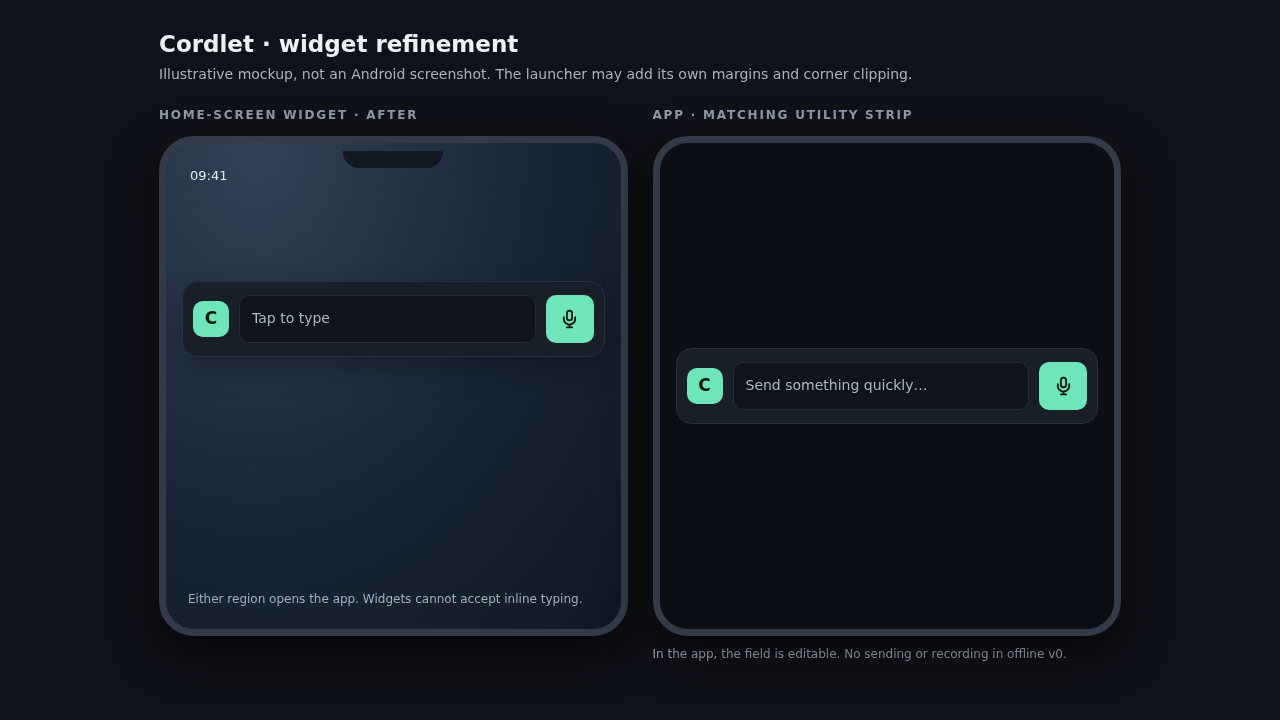
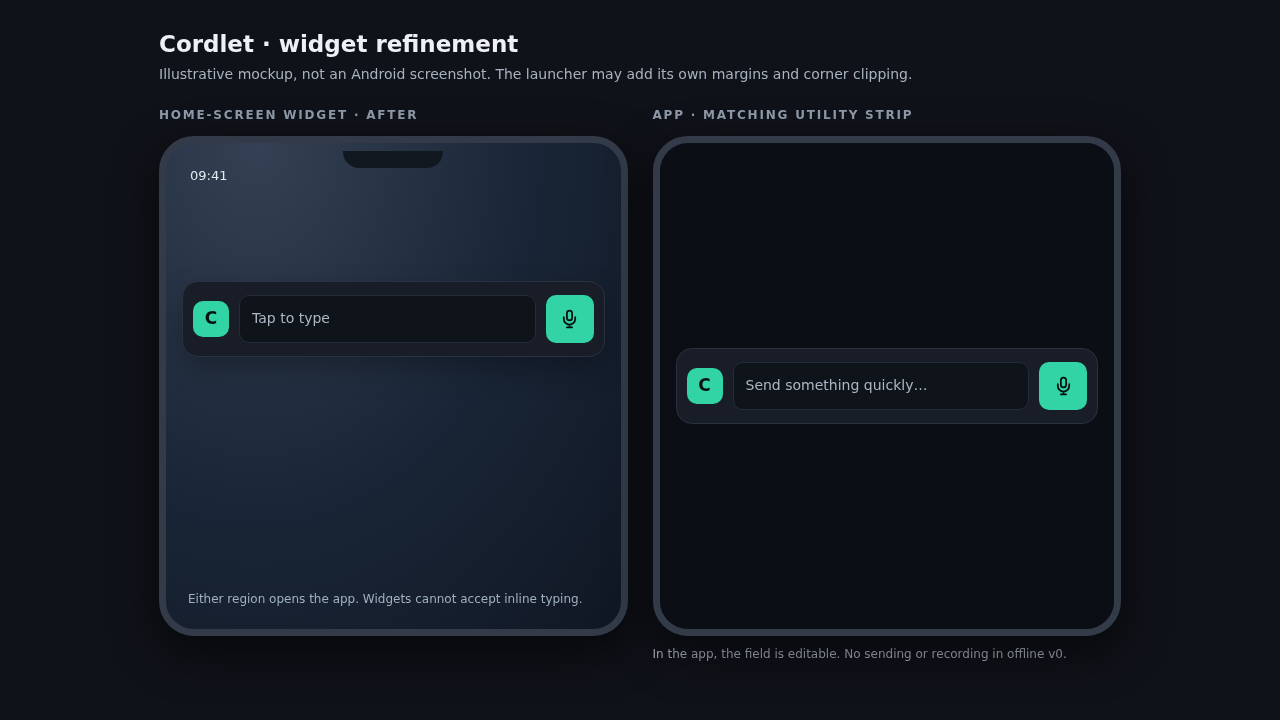
fix: align widget dimensions and palette with app

diff --git a/docs/widget-after-preview.html b/docs/widget-after-preview.html
@@ -1,1 +1,1 @@
-<!doctype html><html lang="en"><head><meta charset="utf-8"><meta name="viewport" content="width=device-width,initial-scale=1"><title>Cordlet widget refinement — illustration</title><style>*{box-sizing:border-box}body{margin:0;background:#101219;color:#edf1f5;font:14px/1.4 system-ui,-apple-system,Segoe UI,sans-serif}.page{max-width:1010px;margin:0 auto;padding:28px 24px 36px}h1{font-size:23px;margin:0 0 5px}p{color:#a8b2c0;margin:0 0 22px}.compare{display:flex;gap:25px;align-items:flex-start}.panel{flex:1;min-width:0}.label{color:#8f9baa;font-size:12px;text-transform:uppercase;letter-spacing:.15em;font-weight:700;margin:0 0 12px}.phone{height:500px;border:7px solid #333b49;border-radius:35px;background:radial-gradient(ellipse at 20% 0%,#344154 0%,#192536 55%,#101723 100%);position:relative;overflow:hidden;padding:24px 16px;box-shadow:0 16px 45px #0009}.phone:before{content:"";position:absolute;top:8px;left:39%;width:22%;height:17px;background:#121820;border-radius:0 0 16px 16px}.clock{font-size:13px;color:#e3ebee;margin:0 0 96px 8px}.widget{width:100%;height:76px;display:flex;align-items:center;gap:10px;background:#191f29;border:1px solid #2a3140;border-radius:16px;padding:10px;box-shadow:0 12px 28px #0004}.brand{width:36px;height:36px;flex:none;display:grid;place-items:center;background:#6fe6ba;border-radius:10px;color:#07110e;font-size:17px;font-weight:900}.well{height:48px;min-width:0;flex:1;display:flex;align-items:center;border:1px solid #252c38;border-radius:10px;background:#0f131a;color:#aeb7c3;padding:0 12px;white-space:nowrap;overflow:hidden;text-overflow:ellipsis}.mic{width:48px;height:48px;flex:none;display:grid;place-items:center;border-radius:10px;background:#6fe6ba;color:#07110e}.mic svg{width:21px;height:21px;fill:none;stroke:currentColor;stroke-width:2;stroke-linecap:round;stroke-linejoin:round}.caption{position:absolute;bottom:21px;left:22px;right:22px;color:#9fb0bf;font-size:12px}.app{position:absolute;inset:0;background:#0b0e14;display:flex;align-items:center;padding:0 16px}.app .widget{box-shadow:none}.screen-note{margin-top:10px;color:#aab4c0;font-size:12px}@media(max-width:750px){.compare{flex-direction:column}.panel{width:100%}.phone{height:420px}.clock{margin-bottom:70px}}</style></head><body><main class="page"><h1>Cordlet · widget refinement</h1><p>Illustrative mockup, not an Android screenshot. The launcher may add its own margins and corner clipping.</p><div class="compare"><section class="panel"><div class="label">Home-screen widget · after</div><div class="phone"><div class="clock">09:41</div><div class="widget"><div class="brand">C</div><div class="well">Tap to type</div><div class="mic"><svg viewBox="0 0 24 24" aria-hidden="true"><rect x="9" y="3" width="6" height="11" rx="3"/><path d="M5.5 10.5v2a6.5 6.5 0 0 0 13 0v-2M12 19v3m-3 0h6"/></svg></div></div><div class="caption">Either region opens the app. Widgets cannot accept inline typing.</div></div></section><section class="panel"><div class="label">App · matching Utility Strip</div><div class="phone"><div class="app"><div class="widget"><div class="brand">C</div><div class="well">Send something quickly…</div><div class="mic"><svg viewBox="0 0 24 24" aria-hidden="true"><rect x="9" y="3" width="6" height="11" rx="3"/><path d="M5.5 10.5v2a6.5 6.5 0 0 0 13 0v-2M12 19v3m-3 0h6"/></svg></div></div></div></div><div class="screen-note">In the app, the field is editable. No sending or recording in offline v0.</div></section></div></main></body></html>
+<!doctype html><html lang="en"><head><meta charset="utf-8"><meta name="viewport" content="width=device-width,initial-scale=1"><title>Cordlet widget refinement — illustration</title><style>*{box-sizing:border-box}body{margin:0;background:#101219;color:#edf1f5;font:14px/1.4 system-ui,-apple-system,Segoe UI,sans-serif}.page{max-width:1010px;margin:0 auto;padding:28px 24px 36px}h1{font-size:23px;margin:0 0 5px}p{color:#a8b2c0;margin:0 0 22px}.compare{display:flex;gap:25px;align-items:flex-start}.panel{flex:1;min-width:0}.label{color:#8f9baa;font-size:12px;text-transform:uppercase;letter-spacing:.15em;font-weight:700;margin:0 0 12px}.phone{height:500px;border:7px solid #333b49;border-radius:35px;background:radial-gradient(ellipse at 20% 0%,#344154 0%,#192536 55%,#101723 100%);position:relative;overflow:hidden;padding:24px 16px;box-shadow:0 16px 45px #0009}.phone:before{content:"";position:absolute;top:8px;left:39%;width:22%;height:17px;background:#121820;border-radius:0 0 16px 16px}.clock{font-size:13px;color:#e3ebee;margin:0 0 96px 8px}.widget{width:100%;height:76px;display:flex;align-items:center;gap:10px;background:#181d27;border:1px solid #2a3140;border-radius:16px;padding:10px;box-shadow:0 12px 28px #0004}.brand{width:36px;height:36px;flex:none;display:grid;place-items:center;background:#32d3a4;border-radius:10px;color:#07110e;font-size:17px;font-weight:900}.well{height:48px;min-width:0;flex:1;display:flex;align-items:center;border:1px solid #252c38;border-radius:10px;background:#0f131a;color:#aeb7c3;padding:0 12px;white-space:nowrap;overflow:hidden;text-overflow:ellipsis}.mic{width:48px;height:48px;flex:none;display:grid;place-items:center;border-radius:10px;background:#32d3a4;color:#07110e}.mic svg{width:21px;height:21px;fill:none;stroke:currentColor;stroke-width:2;stroke-linecap:round;stroke-linejoin:round}.caption{position:absolute;bottom:21px;left:22px;right:22px;color:#9fb0bf;font-size:12px}.app{position:absolute;inset:0;background:#0b0e14;display:flex;align-items:center;padding:0 16px}.app .widget{box-shadow:none}.screen-note{margin-top:10px;color:#aab4c0;font-size:12px}@media(max-width:750px){.compare{flex-direction:column}.panel{width:100%}.phone{height:420px}.clock{margin-bottom:70px}}</style></head><body><main class="page"><h1>Cordlet · widget refinement</h1><p>Illustrative mockup, not an Android screenshot. The launcher may add its own margins and corner clipping.</p><div class="compare"><section class="panel"><div class="label">Home-screen widget · after</div><div class="phone"><div class="clock">09:41</div><div class="widget"><div class="brand">C</div><div class="well">Tap to type</div><div class="mic"><svg viewBox="0 0 24 24" aria-hidden="true"><rect x="9" y="3" width="6" height="11" rx="3"/><path d="M5.5 10.5v2a6.5 6.5 0 0 0 13 0v-2M12 19v3m-3 0h6"/></svg></div></div><div class="caption">Either region opens the app. Widgets cannot accept inline typing.</div></div></section><section class="panel"><div class="label">App · matching Utility Strip</div><div class="phone"><div class="app"><div class="widget"><div class="brand">C</div><div class="well">Send something quickly…</div><div class="mic"><svg viewBox="0 0 24 24" aria-hidden="true"><rect x="9" y="3" width="6" height="11" rx="3"/><path d="M5.5 10.5v2a6.5 6.5 0 0 0 13 0v-2M12 19v3m-3 0h6"/></svg></div></div></div></div><div class="screen-note">In the app, the field is editable. No sending or recording in offline v0.</div></section></div></main></body></html>

diff --git a/app/src/test/java/io/github/rolfwessels/cordlet/widget/WidgetArtworkTest.kt b/app/src/test/java/io/github/rolfwessels/cordlet/widget/WidgetArtworkTest.kt
@@ -14,7 +14,7 @@ class WidgetArtworkTest {
     @Test fun panelHasRoundedOutlineAndDarkFill() {
         val shape = xml("cordlet_widget_panel.xml").documentElement
         assertEquals("shape", shape.tagName)
-        assertEquals("#191F29", shape.getElementsByTagName("solid").item(0).attributes.getNamedItemNS(androidNs, "color").nodeValue)
+        assertEquals("#181D27", shape.getElementsByTagName("solid").item(0).attributes.getNamedItemNS(androidNs, "color").nodeValue)
         assertEquals("16dp", shape.getElementsByTagName("corners").item(0).attributes.getNamedItemNS(androidNs, "radius").nodeValue)
         assertEquals("#2A3140", shape.getElementsByTagName("stroke").item(0).attributes.getNamedItemNS(androidNs, "color").nodeValue)
     }
